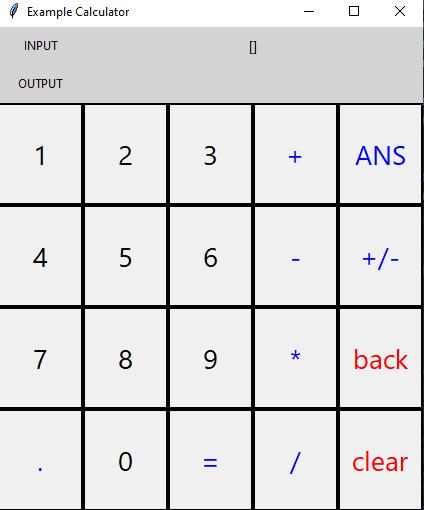
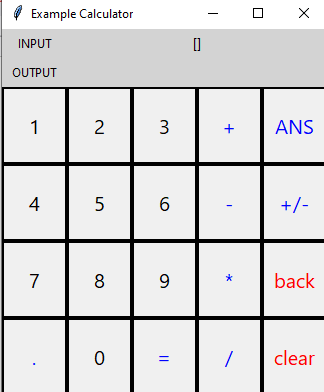
update size of font

diff --git a/run_calculator_gui.py b/run_calculator_gui.py
@@ -128,14 +128,14 @@ def display_image(bgcolor="light gray"):
   panel = Label(master=Wrangle.inter, text=F"INPUT",background=bgcolor)
   panel.grid(row = 0, column =1)
 
-  panel = Label(master=Wrangle.inter, text=F" "*20, font=(None, 20),background=bgcolor)
+  panel = Label(master=Wrangle.inter, text=F" "*20, font=(None, 15),background=bgcolor)
   panel.grid(row = 0, column =2, columnspan=5)
   panel = Label(master=Wrangle.inter, text=F"{Storage.backend}", font=(None, 10),background=bgcolor)
   panel.grid(row = 0, column =2, columnspan=5)
 
   panel = Label(master=Wrangle.inter, text=F"OUTPUT",background=bgcolor)
   panel.grid(row = 1, column =1) 
-  panel = Label(master=Wrangle.inter, text=F" "*20, font=(None, 20), background=bgcolor)
+  panel = Label(master=Wrangle.inter, text=F" "*20, font=(None, 15), background=bgcolor)
   panel.grid(row = 1, column =2, columnspan=5)
 
   panel = Label(master=Wrangle.inter, text=F"{Storage.previous_answer[-1]}", background=bgcolor)
@@ -177,7 +177,7 @@ def main():
                    ["blue", "blue", "blue", "blue"],
                    ["blue", "blue", "red", "red"],
                    ]
-  default_fontsize = 20
+  default_fontsize = 15
   samething = "solid"# flat, groove, raised, ridge, solid, or sunken
   reliefs = [[],
                    [f"{samething}" for xx in range(4)],
